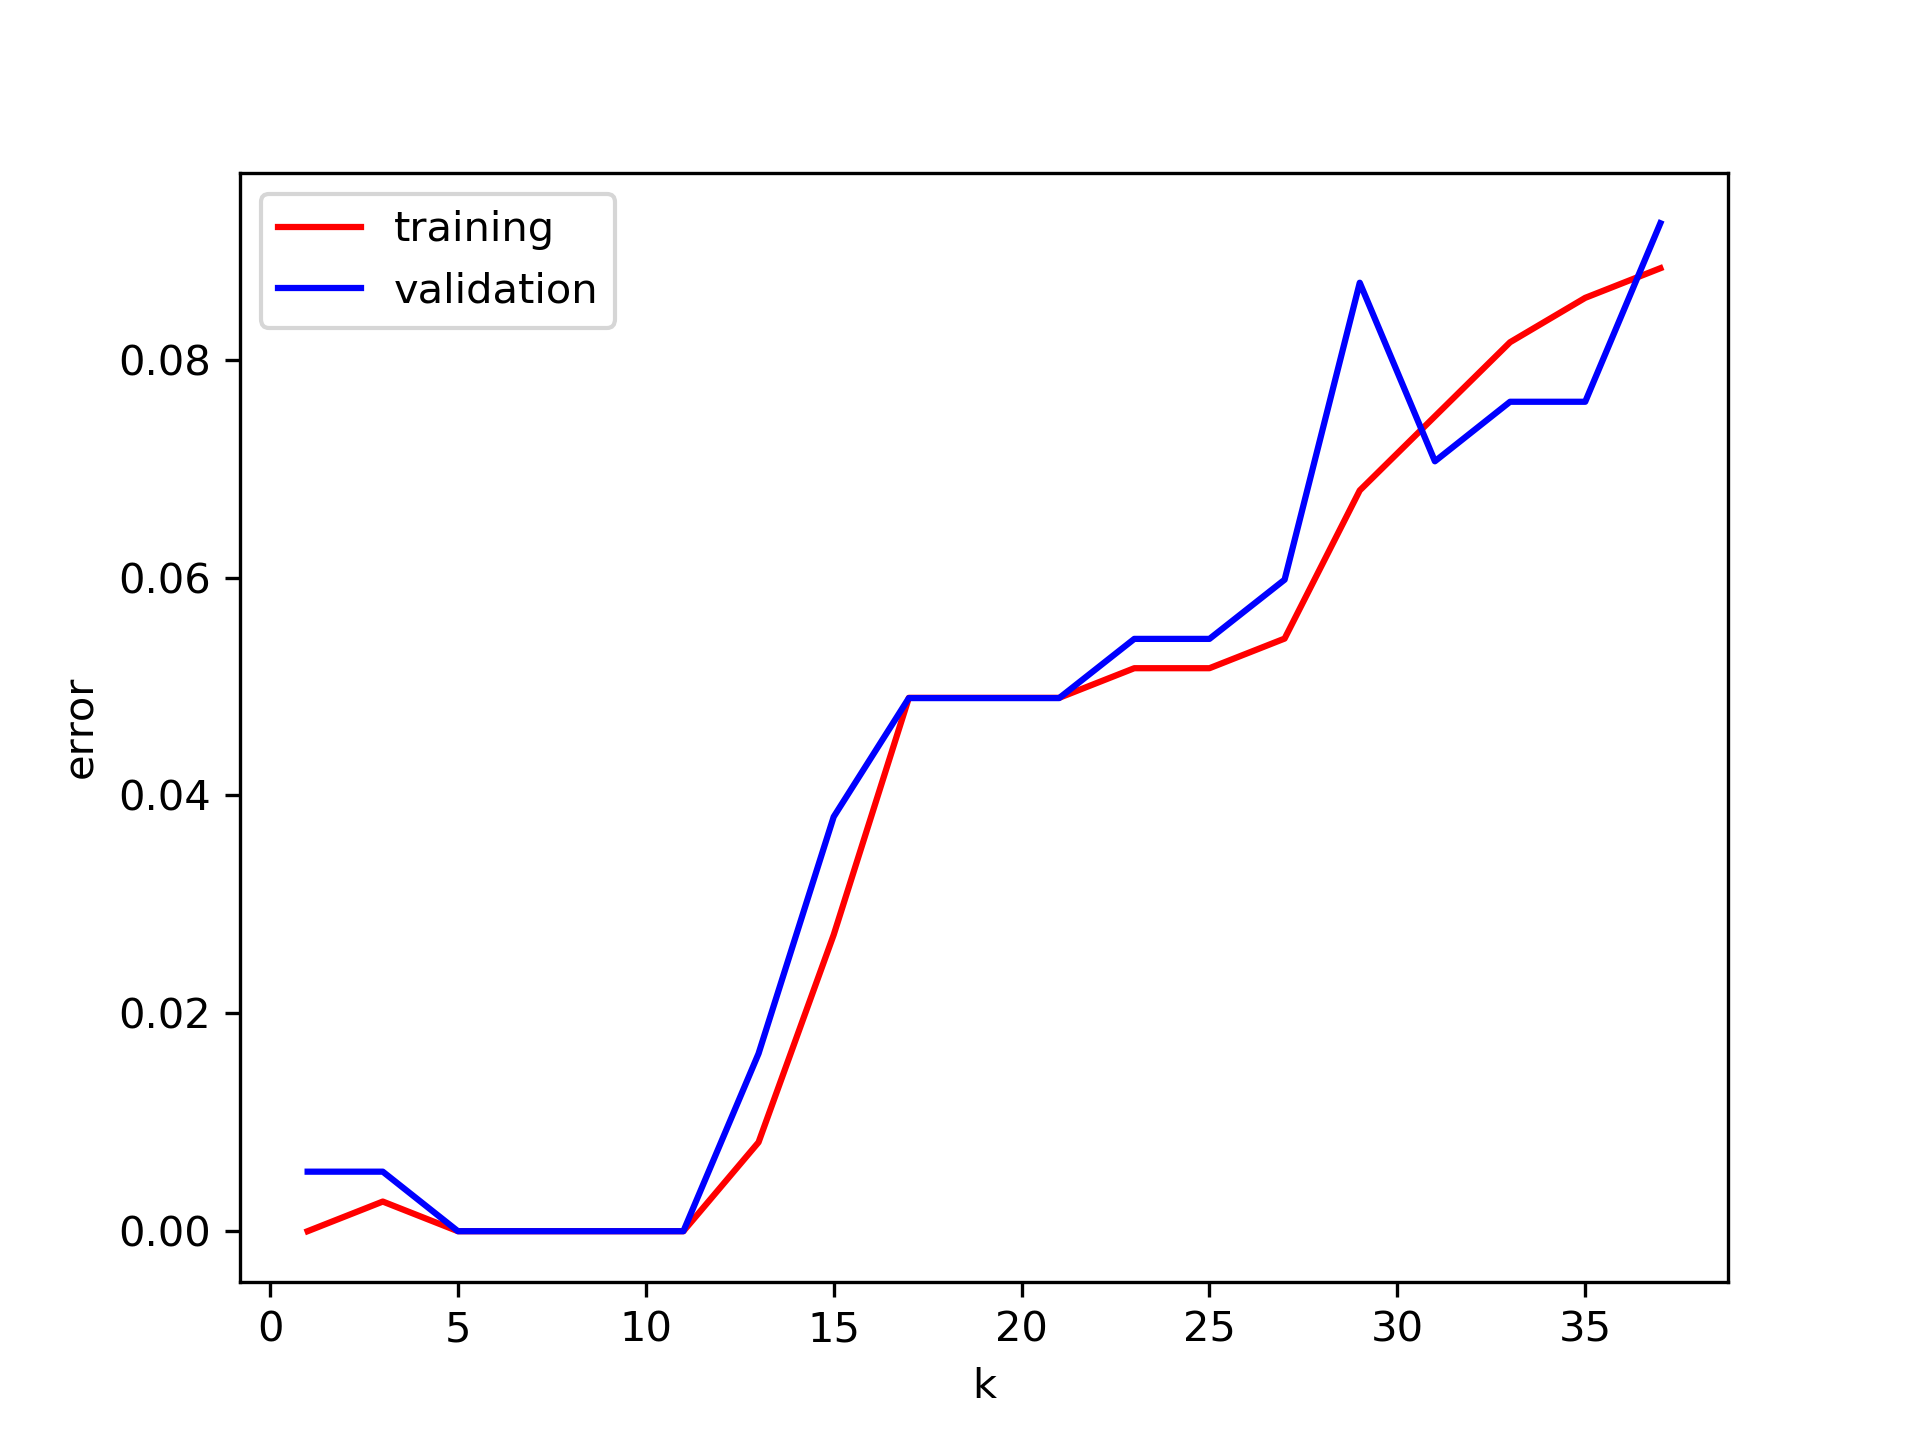
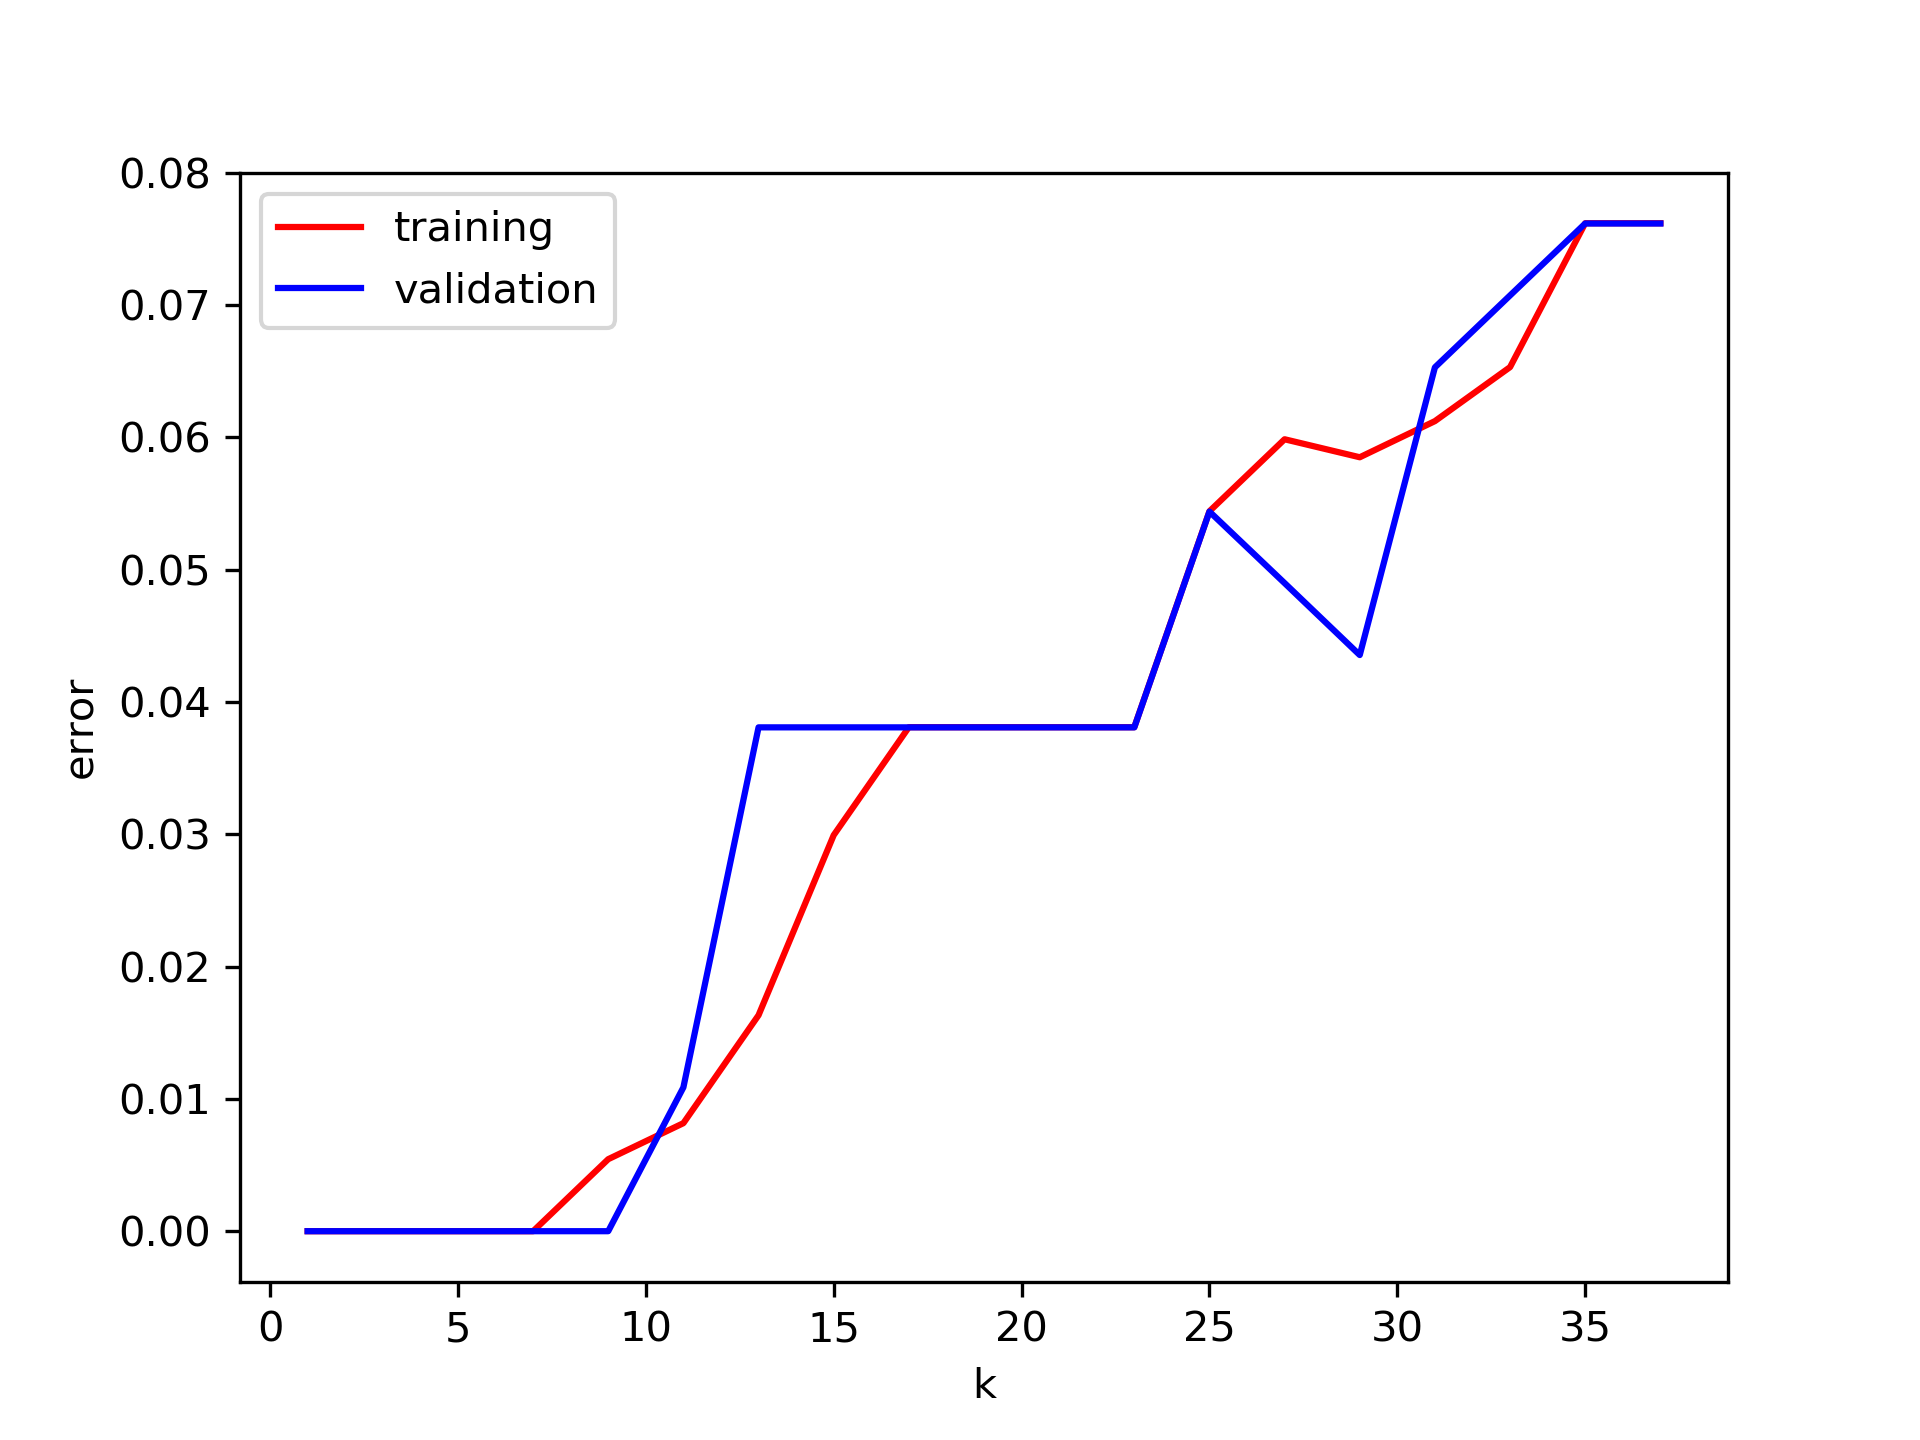
Implemented plotting

diff --git a/assignment.py b/assignment.py
@@ -77,7 +77,6 @@ class Assignment:
 
                 prior_kde_list = get_prior_and_kdes(x_training_set, y_training_set, bw)
                 train_error, valid_error = calculate_error_bayes(x_training_set, y_training_set, x_validation_set, y_validation_set, prior_kde_list)
-                print(train_error, valid_error)
                 total_train_error += train_error
                 total_val_error += valid_error
 
@@ -85,6 +84,12 @@ class Assignment:
 
         cross_error_matrix = np.array(cross_error_list)
 
+        plot_crossVal_err(cross_error_matrix, "bayes", filename = "cross_val_err_vs_bw.png") # Plot training and validation errors
+
+        index_line_of_best_bw = np.argmin(cross_error_matrix[:, 2])
+        best_bw = cross_error_matrix[index_line_of_best_bw, 0]
+
+        return best_bw
         # Plot cross validation and training errors
 
         # Select best bandwidth

diff --git a/helperfuncs.py b/helperfuncs.py
@@ -84,7 +84,10 @@ def plot_crossVal_err(err_array, algorithm, if_log_c_axis = True, filename = 'cr
     else:
         plt.plot(err_array[:,0], err_array[:, 1], "-r", label="training")
         plt.plot(err_array[:,0], err_array[:, 2], "-b", label="validation")
-        plt.xlabel('k')
+        if(algorithm == "knn"):
+            plt.xlabel('k')
+        else:
+            plt.xlabel('bw')
         
     plt.ylabel('error')
     plt.legend()
